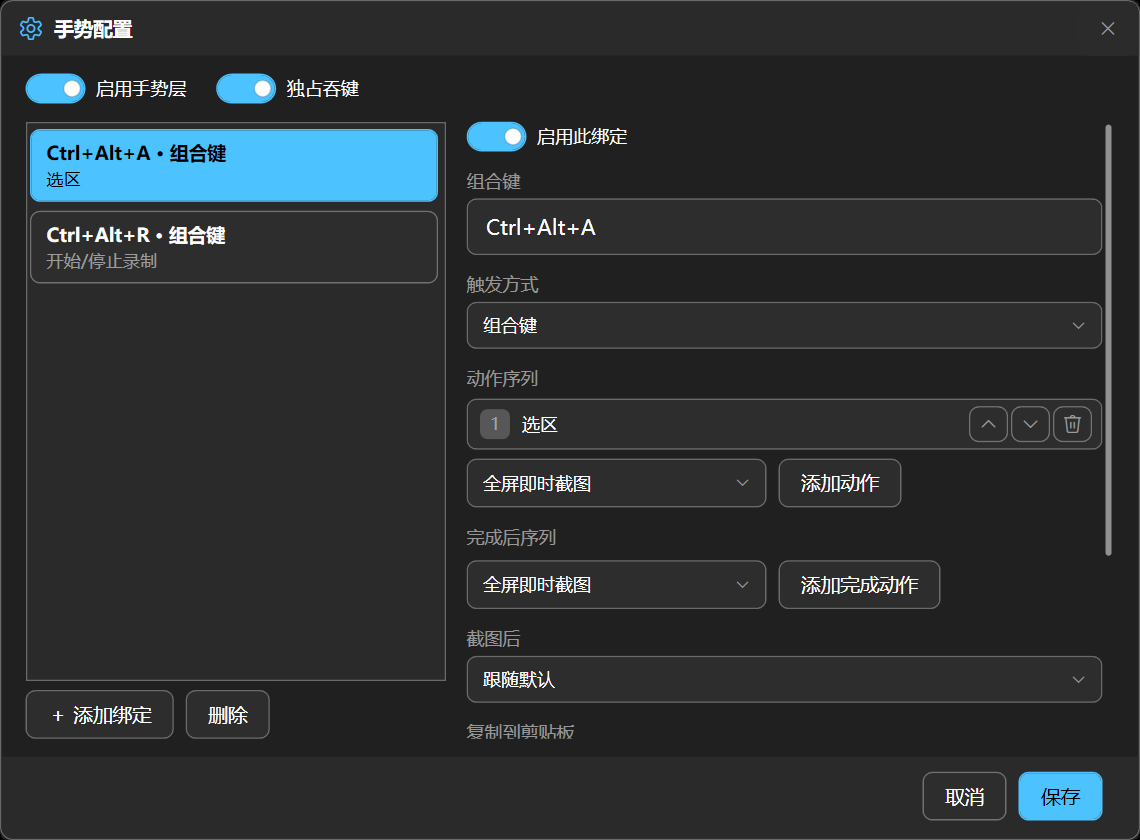
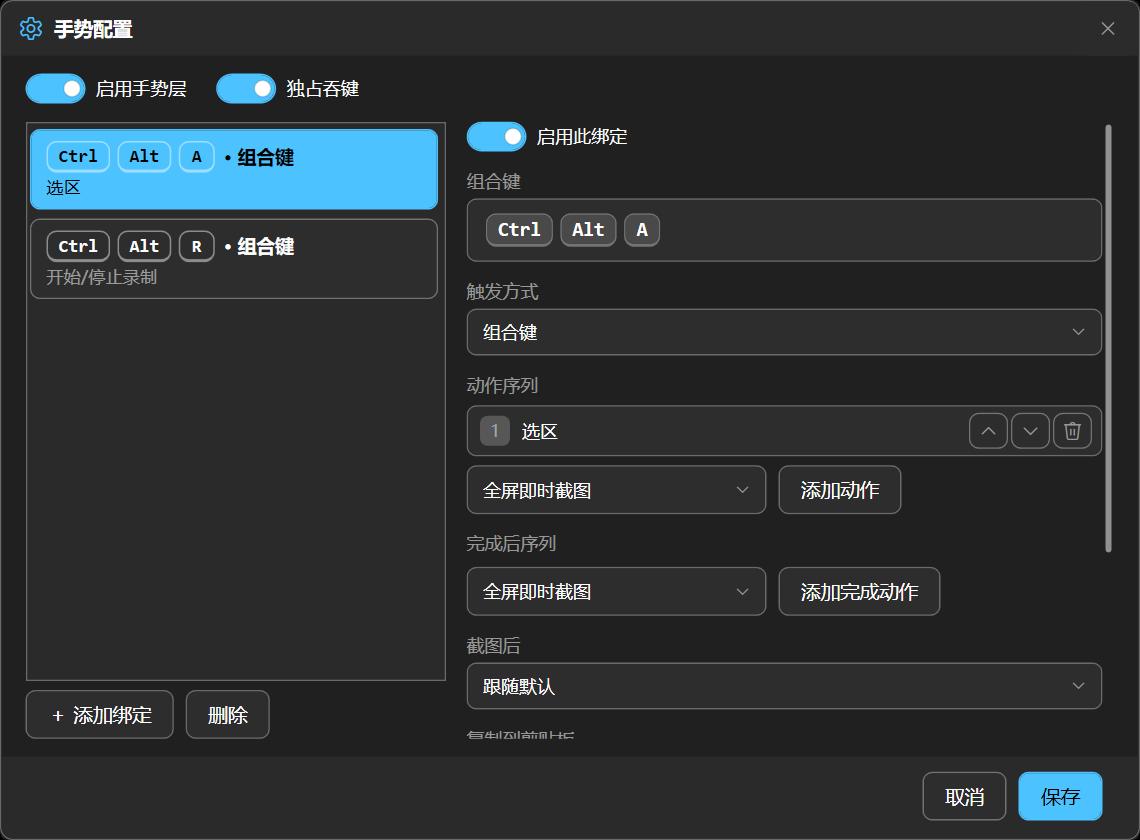
站点界面截图跟上键帽版：手势配置与设置两张重拍
手势配置那张还在显示纯文本组合键，设置那张停在截图页且带着调试留下的 1.1 秒、3.2 秒；两张都按当前版本重拍，设置改拍快捷键页，全局键位与逐条可改的编辑器键位一眼都在。快捷键页顶部那句改成「全局键位如下」，编辑器键位就在下面自己改，不必绕配置器。功能卡标题「选捕获范围」是打错的，改成「捕获范围」；热键撞键那条答复补上编辑器键位的去处。

Changed region(s): [[0.3991, 0.2476, 0.9825, 0.8976], [0.0307, 0.1548, 0.3991, 0.3405]]

diff --git a/src/FrameCapture/Overlays/SettingsWindow.cs b/src/FrameCapture/Overlays/SettingsWindow.cs
@@ -107,14 +107,14 @@ public sealed partial class SettingsWindow : Window
         StackPanel panel = Cat("快捷键", "\uE765");
         #endregion
 
-        #region 快捷键页说明：键位统一由手势配置器管理
+        #region 快捷键页说明：全局键位在这里只读，编辑器键位在下方逐条可改
         panel.Children.Add(new TextBlock
         {
             Foreground = new SolidColorBrush(Theme.TextDim),
             FontSize = 12.5,
             Margin = new Thickness(2, 2, 0, 6),
             TextWrapping = TextWrapping.Wrap,
-            Text = "当前生效的键位如下，增删改请打开下方手势配置器。",
+            Text = "全局键位如下，增删改请打开下方手势配置器。",
         });
         #endregion
 
